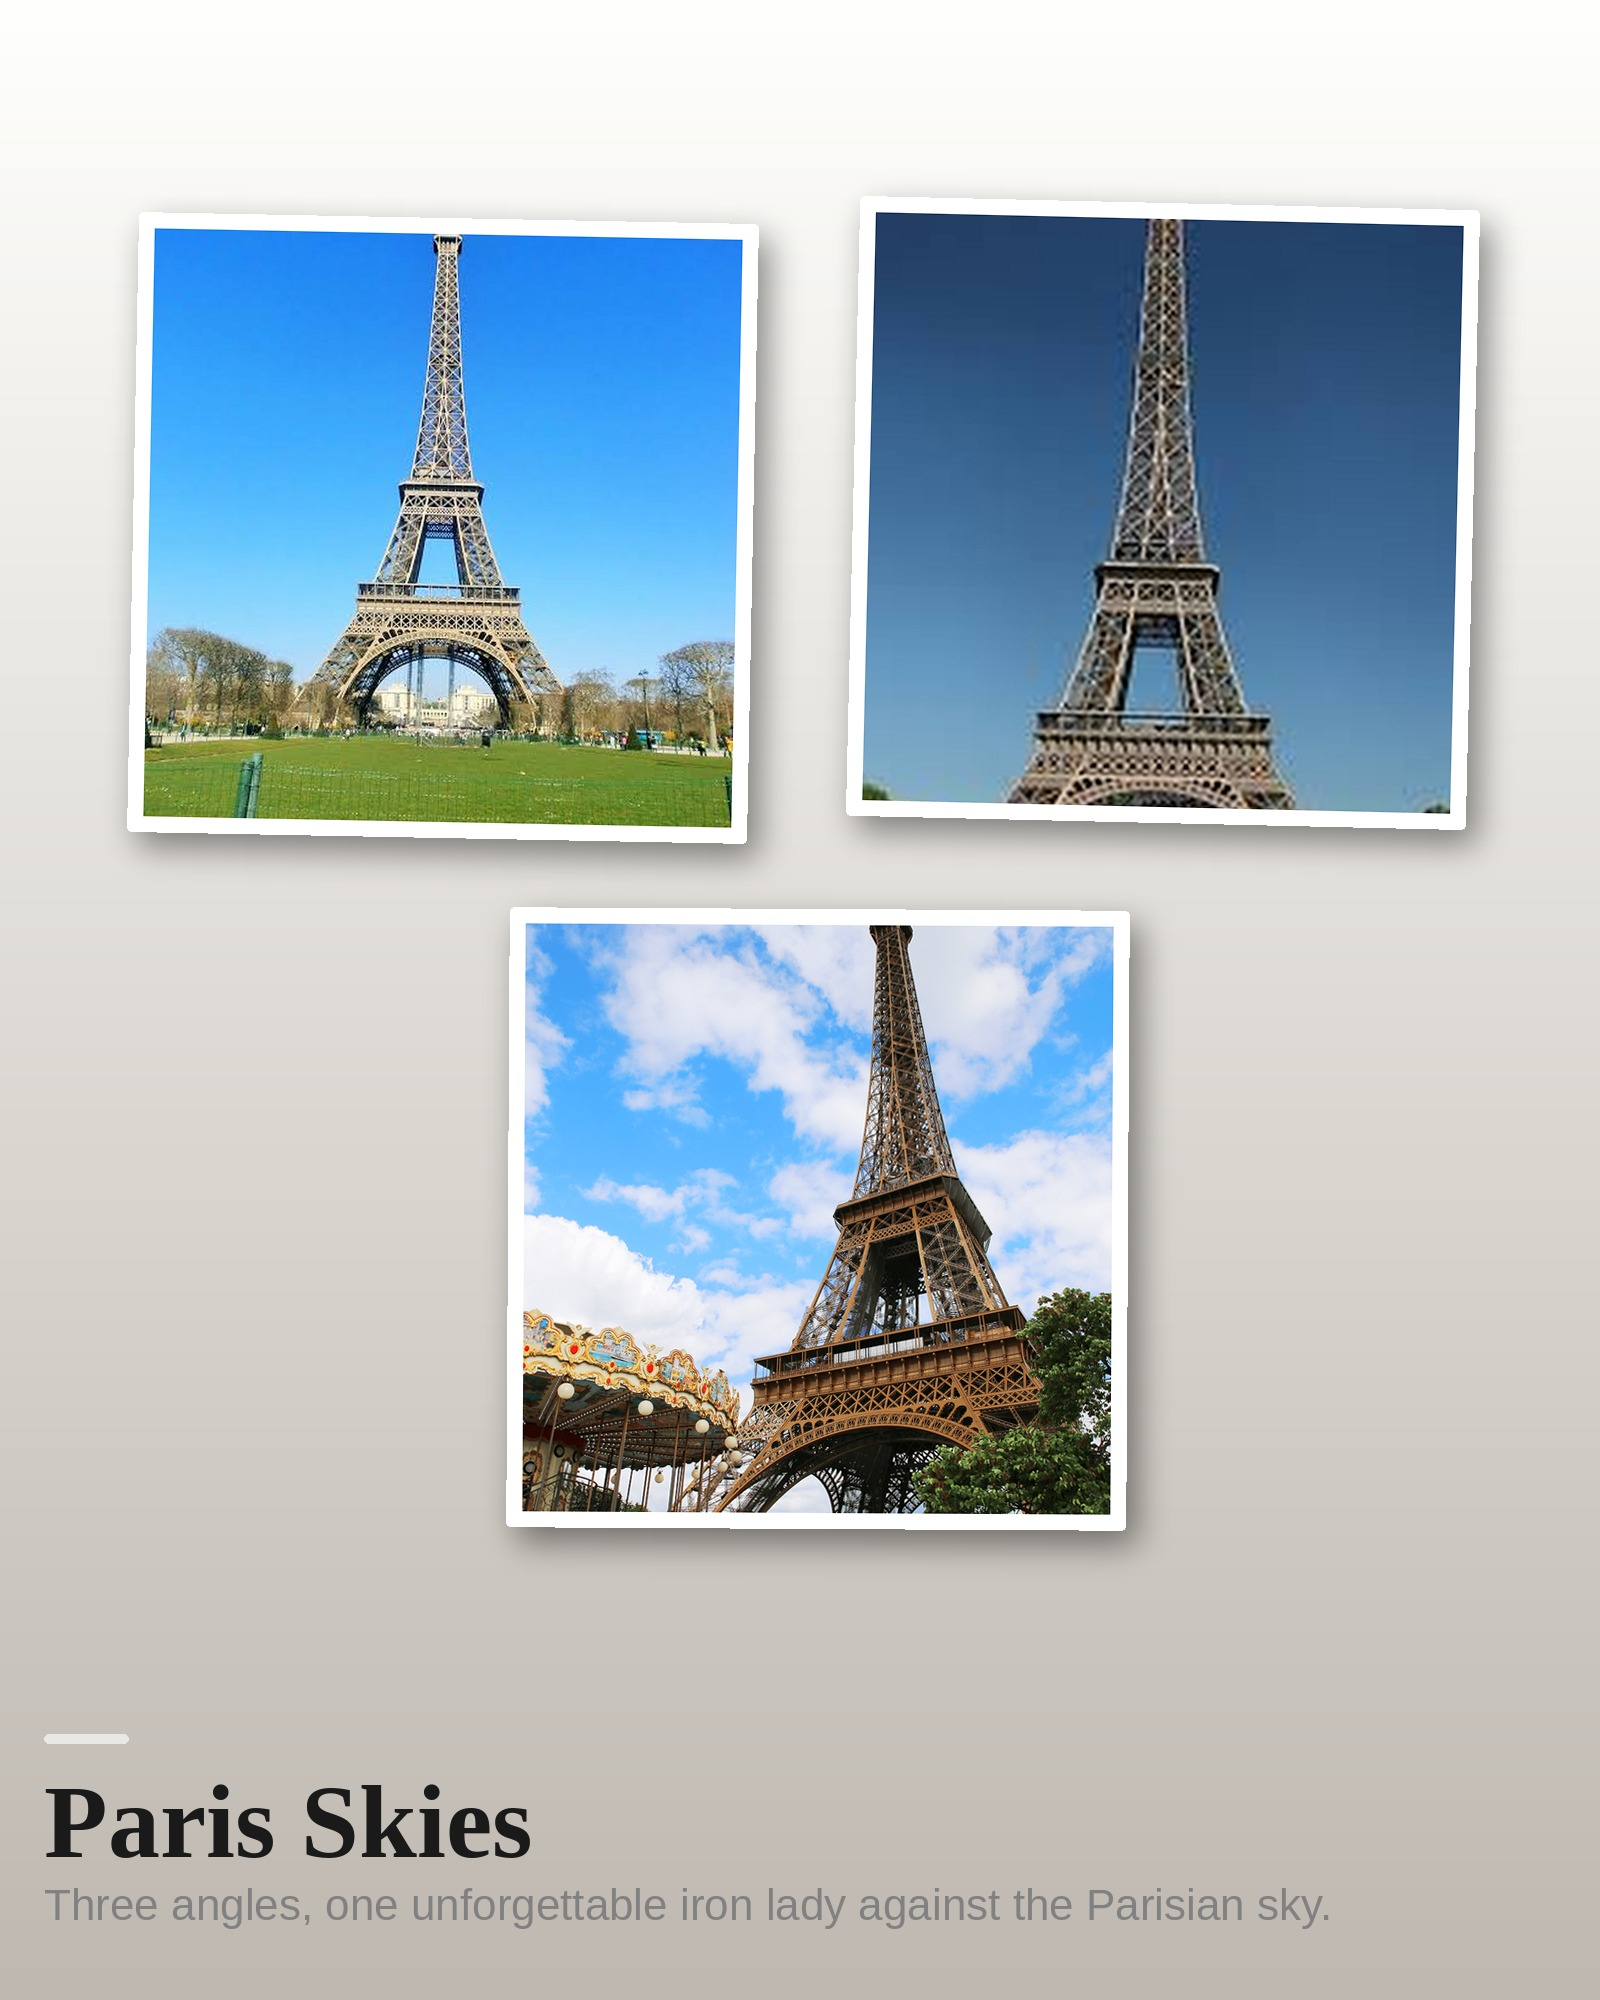
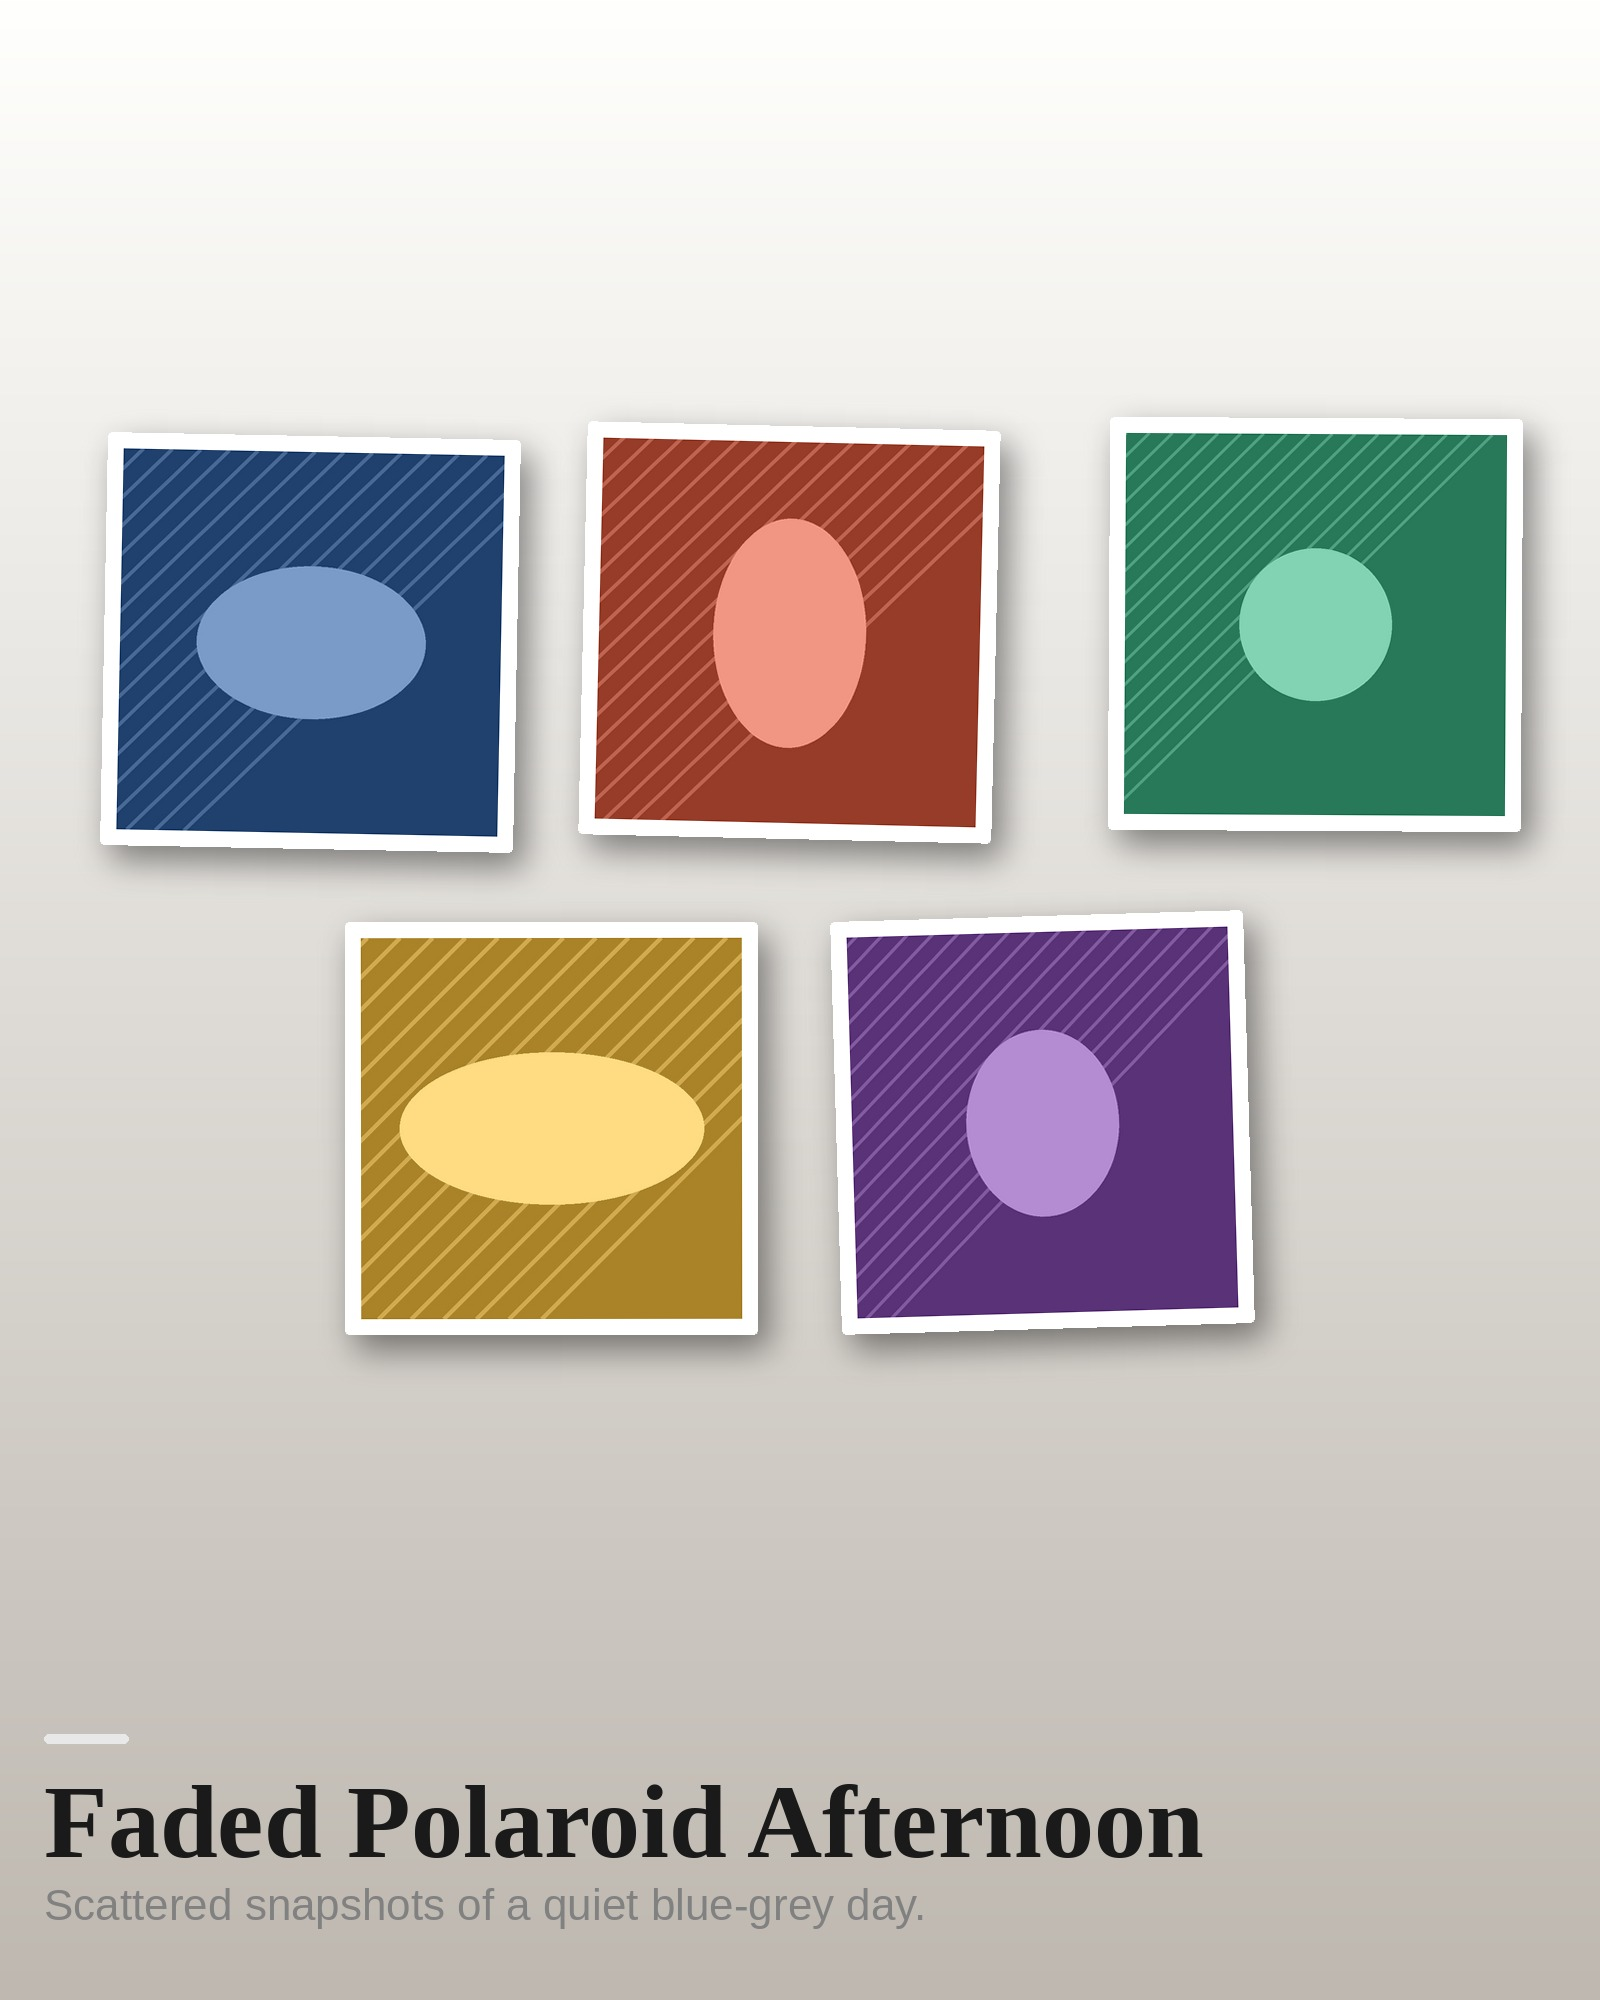
collage: build from template [skip ci]

diff --git a/collage-template.md b/collage-template.md
@@ -44,13 +44,13 @@ photos:
 
 ![collage](https://photo-bucket-333886071196-eu-west-3-an.s3.eu-west-3.amazonaws.com/2026-07-04/collage.jpg)
 
-- **Title:** Paris Skies
+- **Title:** Faded Polaroid Afternoon
 - **Mood:** nostalgic
-- **Layout:** polaroid (score 82.0, judge: vision)
+- **Layout:** polaroid (score 78.0, judge: vision)
 - **Theme source:** template-vision
-- **Photos:** 3
+- **Photos:** 5
 - **Committed image:** [`collage/output/collage.jpg`](collage/output/collage.jpg)
 - **S3:** https://photo-bucket-333886071196-eu-west-3-an.s3.eu-west-3.amazonaws.com/2026-07-04/collage.jpg
-- **Built:** 2026-07-04 22:02:02 UTC
+- **Built:** 2026-07-04 22:04:46 UTC
 
 <!-- RESULT:END -->